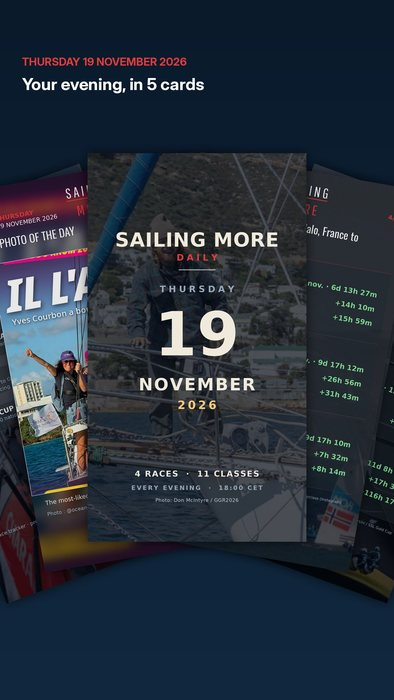
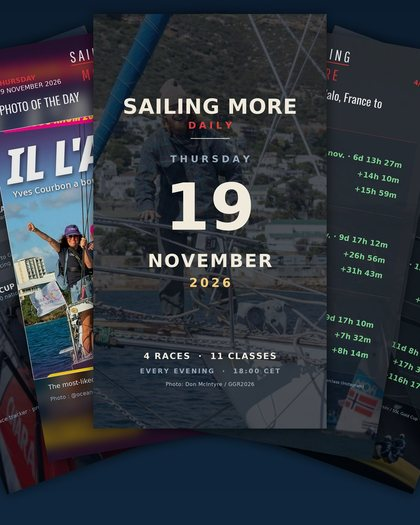
site : story du 2026-11-19

diff --git a/index.html b/index.html
@@ -182,16 +182,27 @@
   .stories h2,.reels h2,.monde h2{white-space:nowrap;font-size:clamp(.98rem,3.05vw,1.62rem);
     letter-spacing:-.012em;margin:0 0 1.5rem;line-height:1.15;color:var(--toile);
     font-weight:700}
-  .pelli{display:flex;gap:1rem;overflow-x:auto;scroll-snap-type:x mandatory;
-    padding:.35rem .2rem 1.1rem;-webkit-overflow-scrolling:touch;scrollbar-width:none}
+  .pelli{position:relative;height:clamp(20rem,50vw,27rem);
+    display:flex;align-items:flex-start;justify-content:center;overflow:hidden;
+    padding:1.2rem .2rem 0;-webkit-overflow-scrolling:touch;scrollbar-width:none}
   .pelli::-webkit-scrollbar{display:none}
-  .vignette{flex:none;width:9.8rem;scroll-snap-align:start;text-decoration:none;
-    transition:transform .18s ease}
+  /* Les stories tenues en éventail, comme un jeu de cartes (Nicolas, 20/11/2026). C'est la présentation
+     de la bande sur le site, rien d'autre : ni les fiches publiées, ni leur ordre ne changent. Chaque
+     vignette est inclinée depuis son bas (transform-origin) et décalée par son rang. */
+  .pelli .vignette:nth-child(1){transform:rotate(-8deg) translate(-30%,7%)}
+  .pelli .vignette:nth-child(2){transform:rotate(-4deg) translate(-15%,2%)}
+  .pelli .vignette:nth-child(3){transform:rotate(0deg) translate(0,-2%)}
+  .pelli .vignette:nth-child(4){transform:rotate(4deg) translate(15%,2%)}
+  .pelli .vignette:nth-child(5){transform:rotate(8deg) translate(30%,7%)}
+  .pelli .vignette:nth-child(n+6){display:none}
+  .vignette{flex:none;width:clamp(8.8rem,30vw,13.5rem);
+    transform-origin:50% 100%;position:relative;text-decoration:none;
+    transition:transform .22s ease}
   .vignette .jour{display:block;margin-top:.4rem;text-align:center;font-size:.72rem;letter-spacing:.06em;
     color:var(--gris);font-variant-numeric:tabular-nums}
   .vignette .anneau{display:block;padding:3px;border-radius:1.15rem;
     background:linear-gradient(150deg,#f9ce34,#ee2a7b 46%,#6228d7)}
-  .vignette:hover{transform:translateY(-5px)}
+  .vignette:hover{transform:rotate(0deg) translate(0,-6%);z-index:9}
   .vignette img{display:block;width:100%;height:auto;aspect-ratio:9/16;object-fit:cover;
     border-radius:.95rem;border:3px solid var(--nuit)}
   .trois{display:grid;grid-template-columns:repeat(3,1fr);gap:1.1rem}
@@ -228,7 +239,12 @@
      rouge qui monte au survol. Ne garder ici que la pose. */
   .carte-kit .bouton{padding:1rem 1.7rem;text-decoration:none}
   @media (max-width:900px){
-    .vignette{width:8.4rem}
+    .vignette{width:clamp(6.6rem,24vw,8.6rem)}
+    .pelli{height:clamp(16rem,56vw,19rem)}
+    .pelli .vignette:nth-child(1){transform:rotate(-7deg) translate(-24%,7%)}
+    .pelli .vignette:nth-child(2){transform:rotate(-3.5deg) translate(-12%,2%)}
+    .pelli .vignette:nth-child(4){transform:rotate(3.5deg) translate(12%,2%)}
+    .pelli .vignette:nth-child(5){transform:rotate(7deg) translate(24%,7%)}
     .trois{grid-template-columns:repeat(3,1fr);gap:.6rem}
     .legende{font-size:.68rem}
   }
